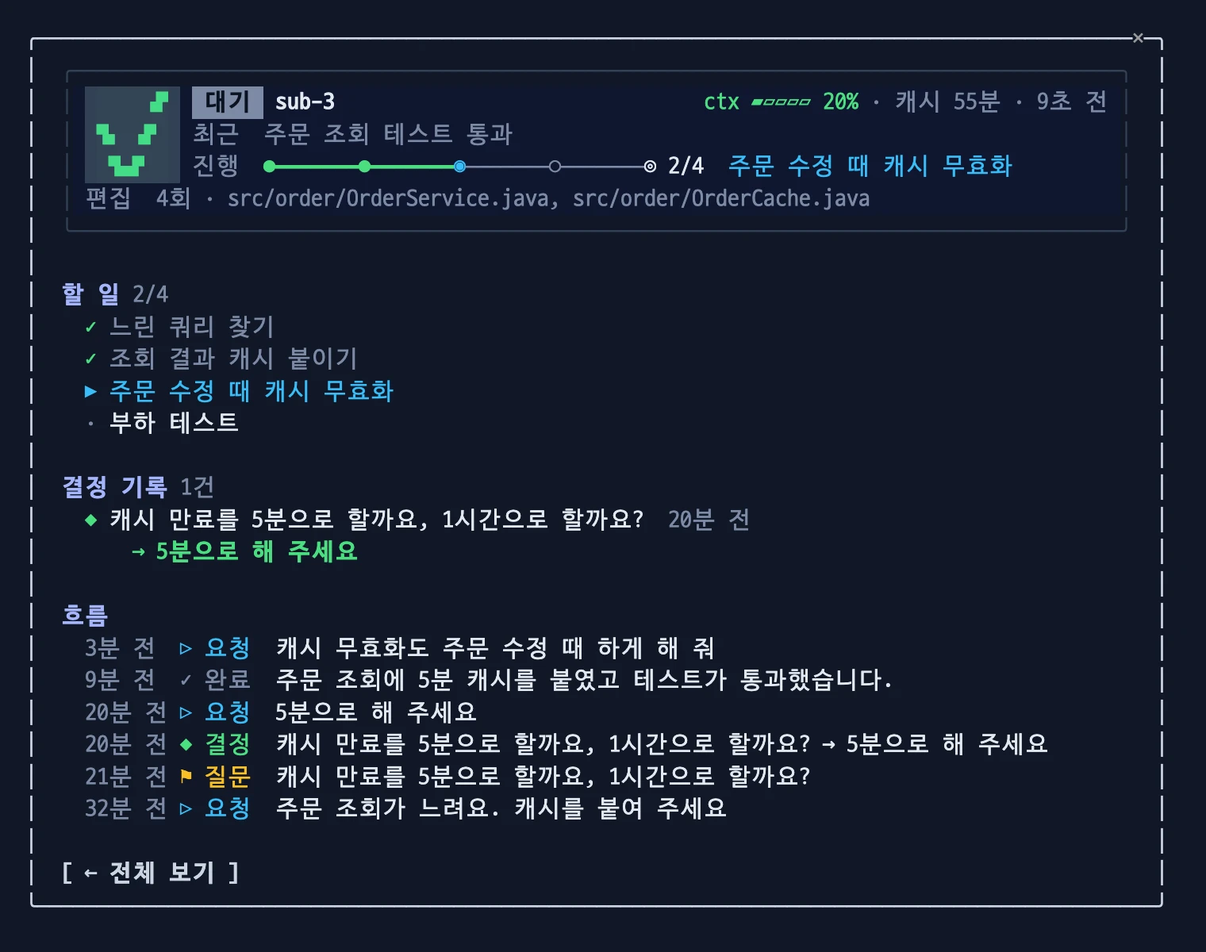
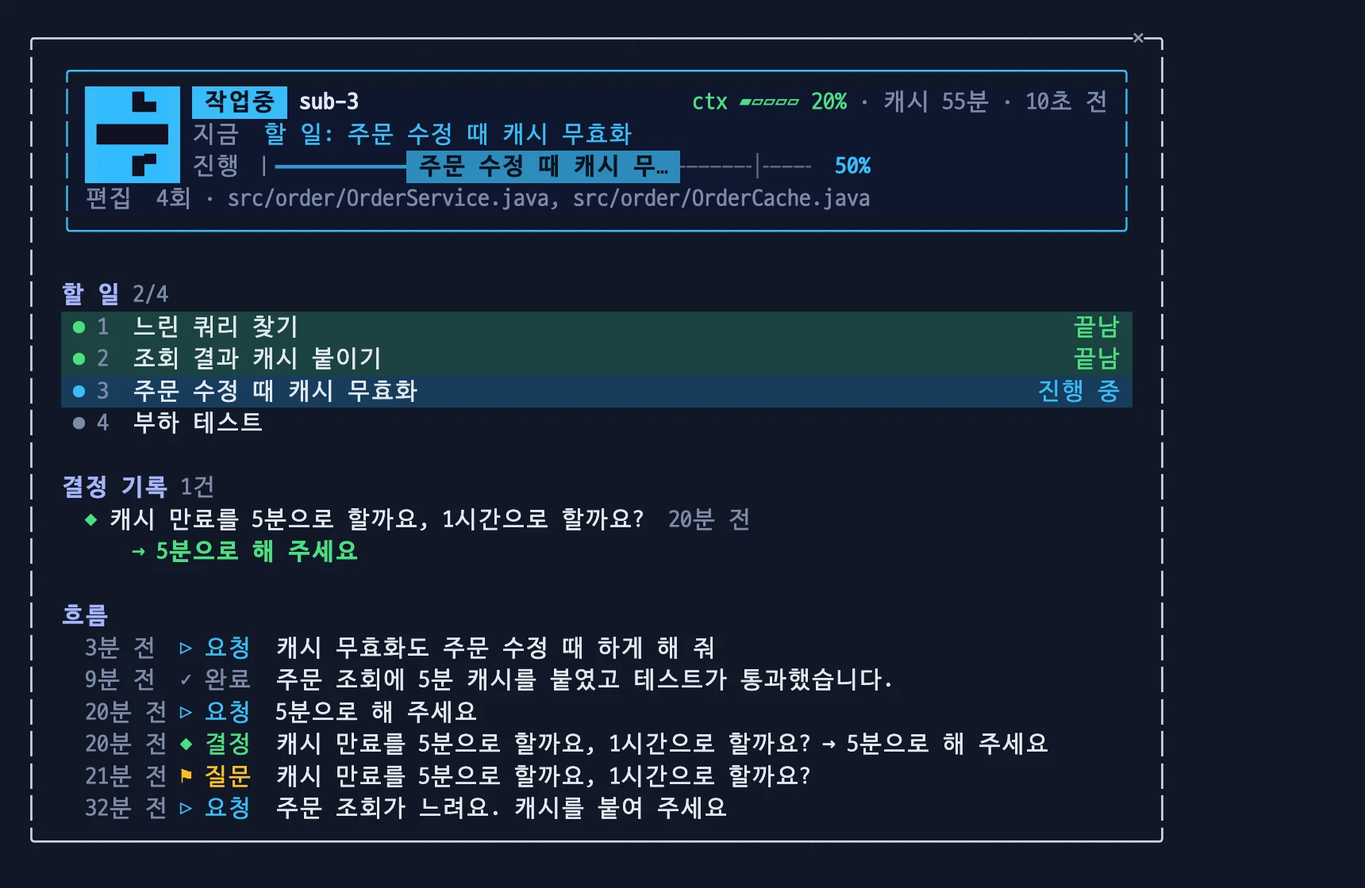
README: add per-option screenshots with use cases for every mod, and capture tools
Claude-Session: https://claude.ai/code/session_0171W1s1WD2Q3wd3CeGP9kTN

Changed region(s): [[0.0, 0.0312, 0.9586, 0.9688], [0.8039, 0.2188, 0.8658, 0.25], [0.5566, 0.5312, 0.6184, 0.5625]]

diff --git a/docs/tools/peers.py b/docs/tools/peers.py
@@ -1,4 +1,4 @@
-# 촬영용 가짜 동료 세션 기록을 쓴다. 사용: peers.py <dir> <scenario: hud|eight|five|many|ask|agents|flow|none(지우기만)>
+# 촬영용 가짜 동료 세션 기록을 쓴다. 사용: peers.py <dir> <scenario: hud|eight|five|many|ask|agents|flow|bars|none(지우기만)>
 import json, os, sys, time, glob
 d, sc = sys.argv[1], sys.argv[2]
 for f in glob.glob(os.path.join(d, 'peer-*.json')):
@@ -6,7 +6,8 @@ for f in glob.glob(os.path.join(d, 'peer-*.json')):
 now = int(time.time() * 1000)
 cwd = '/repo/order-svc'
 def t(*st):
-    return [{'id': str(i + 1), 'subject': f'할 일 {i + 1}', 'status': s} for i, s in enumerate(st)]
+    names = ['느린 쿼리 찾기', '조회 결과 캐시 붙이기', '캐시 무효화', '부하 테스트', '문서 정리', '배포 확인']
+    return [{'id': str(i + 1), 'subject': names[i] if i < len(names) else f'할 일 {i + 1}', 'status': s} for i, s in enumerate(st)]
 def put(id, name, **kw):
     b = {'id': 'peer-' + id, 'name': name, 'cwd': cwd, 'state': 'idle', 'step': '', 'prompt': '', 'last': '', 'question': '',
          'contextPct': 20, 'tasks': [], 'decisions': [], 'timeline': [], 'edits': 0, 'files': [], 'fail': None,
@@ -20,7 +21,8 @@ if False:
 elif sc == 'hud':
     put('2', 'sub-2', state='asking', question='캐시 만료를 5분으로 할까요, 1시간으로 할까요?', tasks=t('completed', 'in_progress', 'pending', 'pending'))
     put('a', 'api-fix', state='working', step='Bash ./gradlew test --tests Order')
-    put('3', 'sub-3', tasks=t('completed', 'completed', 'pending', 'pending'), last='PR38 래퍼 수정 완료')
+    put('3', 'sub-3', tasks=t('completed', 'completed', 'completed', 'completed'), last='PR38 래퍼 수정 완료',
+        timeline=[{'at': now - 260_000, 'kind': 'prompt', 'text': 'PR38 래퍼 수정'}, {'at': now - 20_000, 'kind': 'done', 'text': '끝'}])
     put('4', 'sub-4', cacheAt=now - 52 * 60_000, last='JOIN 감시 규칙 정리')
 elif sc == 'eight':
     put('3', 'sub-3', state='asking', question='캐시 만료를 5분으로 할까요, 1시간으로 할까요?')
@@ -46,10 +48,19 @@ elif sc == 'agents':
         ag('a2', '캐시 설정 위치 찾기', 'done', '', 21_400, 70)])
     put('3', 'sub-3', last='PR38 래퍼 수정 완료')
     put('2', 'sub-2', state='asking', question='캐시 만료를 5분으로 할까요, 1시간으로 할까요?')
+elif sc == 'bars':
+    # 진행 막대 상태 4종: 작업 · 결정 대기 · 멈춤(중단된 계획) · 끝남
+    sub = ['느린 쿼리 찾기', '조회 결과 캐시 붙이기', '캐시 무효화', '부하 테스트']
+    plan = lambda *st: [{'id': str(i + 1), 'subject': x, 'status': s} for i, (x, s) in enumerate(zip(sub, st))]
+    put('a', 'api-fix', state='working', step='할 일: 조회 결과 캐시 붙이기', tasks=plan('completed', 'in_progress', 'pending', 'pending'))
+    put('2', 'sub-2', state='asking', question='캐시 만료를 5분으로 할까요, 1시간으로 할까요?', tasks=plan('completed', 'completed', 'in_progress', 'pending'))
+    put('3', 'sub-3', last='중단됨', planEnded=True, tasks=plan('completed', 'completed', 'in_progress', 'pending'))
+    put('4', 'sub-4', last='부하 테스트까지 마쳤습니다.', tasks=plan('completed', 'completed', 'completed', 'completed'),
+        timeline=[{'at': now - 200_000, 'kind': 'prompt', 'text': '주문 조회 캐시'}, {'at': now - 8_000, 'kind': 'done', 'text': '끝'}])
 elif sc == 'flow':
     m = lambda s: now - s * 60_000
     sub = ['느린 쿼리 찾기', '조회 결과 캐시 붙이기', '주문 수정 때 캐시 무효화', '부하 테스트']
-    put('3', 'sub-3', tasks=[{'id': str(i + 1), 'subject': x, 'status': st} for i, (x, st) in
+    put('3', 'sub-3', state='working', step='할 일: 주문 수정 때 캐시 무효화', tasks=[{'id': str(i + 1), 'subject': x, 'status': st} for i, (x, st) in
         enumerate(zip(sub, ['completed', 'completed', 'in_progress', 'pending']))], last='주문 조회 테스트 통과', edits=4,
         files=['src/order/OrderService.java', 'src/order/OrderCache.java'],
         decisions=[{'at': m(20), 'question': '캐시 만료를 5분으로 할까요, 1시간으로 할까요?', 'answer': '5분으로 해 주세요'}],

diff --git a/docs/tools/ansi2html.py b/docs/tools/ansi2html.py
@@ -21,6 +21,8 @@ def seg_lines(spec):
         last = next(i for i, l in enumerate(plain) if '╚' in l and i > first)
     return ls[int(first):int(last) + 1]
 def parse(ln):
+    # OSC 8 링크(파일 경로·세션 URL)는 글자 없이 지운다: 홈 경로가 그림에 새지 않게
+    ln = re.sub(r'\x1b\][^\x07\x1b]*(?:\x07|\x1b\\)', '', ln)
     st = {'fg': None, 'bg': None, 'b': False, 'dim': False, 'rev': False}
     cells, pos = [], 0
     for m in re.finditer(r'\x1b\[([0-9;:]*)m|([^\x1b])', ln):

diff --git a/prompt-coach/README.md b/prompt-coach/README.md
@@ -1,0 +1,98 @@
+# prompt-coach
+
+입력창에 쓴 초안에서 사람만 아는 빈 곳(목표, 범위, 결과 모양, 완료 확인)을 객관식으로 묻고, 답을 넣어 다시 씁니다. 보내기는 직접 합니다.
+
+<img src="../docs/images/prompt-coach-band.webp" alt="입력창의 place_order 재고 해제 고쳐줘 위에 ━━ prompt-coach ━━ 띠와 [ 다듬기 ] 버튼" width="760">
+
+이럴 때: "캐시 붙여 줘" 처럼 짧게 쓴 요청을 보내기 전에, 빠진 조건을 채워 한 번에 원하는 결과가 나오게 합니다.
+
+- 다른 mod가 없어도 혼자 동작합니다.
+
+```bash
+claude plugin marketplace add yeochul-jeon/devflow-mods
+claude plugin install prompt-coach@devflow-mods
+```
+
+## 다듬기
+
+- 입력창에 초안을 쓰면 위에 띠가 보입니다. 굵은 회색 가로줄 `━━ prompt-coach ━━` 아래에 `[다듬기]` 버튼이 있습니다. 입력창을 비우면 띠가 사라집니다.
+- 다듬기는 두 단계입니다.
+  1. 질문: Haiku가 초안만 보고, 사람만 아는 빈 곳을 객관식으로 3개까지 묻습니다. 초안이 이미 분명하면 묻지 않고 바로 다음 단계로 갑니다.
+  2. 다시 쓰기: 답을 넣어 목표 → 맥락 → 조건 → 완료 기준 순으로 다시 쓰고 입력창을 바꿉니다.
+- 질문하는 동안 입력창은 비워 둡니다. 초안은 띠의 `초안` 줄에 보입니다. 입력창이 비어 있어서 숫자 키로 답할 수 있습니다.
+
+<img src="../docs/images/prompt-coach-question.webp" alt="띠에 초안과 질문 1/2 어떤 증상으로 재고 해제가 잘못되고 있나요? 와 선택지 1~3, 0 건너뛰기, 9 바로 다듬기" width="760">
+
+| 질문 중 입력 | 동작 |
+| --- | --- |
+| `1`~`4` | 그 번호의 선택지를 고릅니다. |
+| `0` | 이 질문을 건너뜁니다. |
+| `9` | 남은 질문을 건너뛰고 지금까지의 답으로 바로 다시 씁니다. |
+| 입력창에 글을 쓰고 Enter | 그 글을 이 질문의 답으로 받습니다. 보내지 않습니다. |
+| `>` 로 시작하는 글을 쓰고 Enter | 다듬기를 그만두고 `>` 를 뺀 글을 새 요청으로 보냅니다. 초안은 입력창에 돌려놓습니다. |
+| `[취소]` | 다듬기를 그만두고 초안을 입력창에 돌려놓습니다. |
+
+- 다시 쓴 뒤 띠에 `답 n · 제안 n` 과 보탠 것이 보입니다. 초록은 답에서 온 것, 노랑은 Haiku가 스스로 보탠 결과 모양이나 완료 확인입니다. 고치거나 그대로 보내세요.
+
+<img src="../docs/images/prompt-coach-result.webp" alt="입력창에 증상·완료 기준이 붙은 다듬은 글, 띠에 답 2 와 초록색 보탠 것 두 줄, [ 되돌리기 ]" width="760">
+
+이럴 때: 다시 쓴 글에서 노란 제안이 원하는 것과 다르면 그 줄만 고쳐 보냅니다.
+
+- 버튼 누르기: **ctrl+x tab** 으로 띠에 들어가 **Tab** 으로 옮기고 **Enter** 로 누릅니다. **Esc** 로 입력창에 돌아옵니다. 마우스로도 누를 수 있습니다.
+
+## 명령·버튼
+
+| 명령·버튼 | 동작 |
+| --- | --- |
+| `[다듬기]` | 입력창의 초안으로 다듬기를 시작합니다. |
+| `[되돌리기]` | 다듬은 뒤에만 보입니다. 다듬기 전 원문으로 되돌립니다. 다듬은 뒤 입력창을 고쳤으면 덮지 않습니다. |
+| `/coach <초안>` | `[다듬기]` 와 같은 일을 키보드로 합니다. |
+| `/coach view` | 옆 패널에 상세를 띄웁니다. |
+| `/coach auto on\|off` | 자동 모드를 켜고 끕니다. |
+| `/coach cancel` | `[취소]` 와 같습니다. |
+| `/coach undo` | 다듬기 전 원문을 입력창에 넣습니다. |
+| `/coach template` | 빈 틀을 입력창에 넣습니다. 모델을 호출하지 않습니다. |
+| `/coach` | 사용법과 이번 세션 사용량(호출 수, Haiku 입력·출력 토큰)을 보여 줍니다. |
+
+### `/coach view`
+
+지금 단계, 질문 전체(고른 답 바꾸기), 다듬기 전후 낱말 수·보탠 것·원문과 다듬은 글, 최근 20개 기록(`입력창에 넣기`), 자동 모드 켜기·끄기를 옆 패널에 보여 줍니다.
+
+<img src="../docs/images/prompt-coach-view.webp" alt="/coach view 옆 패널: 단계 표시, 자동 모드 꺼짐, Haiku 2회 사용량, 원문 4단어 → 20단어, 보탠 것, 원문·다듬은 글 상자, 기록 1" width="760">
+
+이럴 때: 예전에 다듬은 요청을 다시 쓰고 싶을 때 기록에서 골라 입력창에 넣습니다.
+
+### `/coach template`
+
+빈 틀(목표·맥락·조건·완료 기준)을 입력창에 넣습니다. 이전에 다듬은 원문은 지웁니다.
+
+<img src="../docs/images/prompt-coach-template.webp" alt="/coach template: 입력창에 목표·맥락·조건·완료 기준 빈 틀" width="760">
+
+이럴 때: 처음부터 빠짐없이 쓰고 싶을 때, Haiku 호출 없이 틀만 받아 채웁니다.
+
+### 자동 모드 `/coach auto on`
+
+켜면 입력창에서 보낼 때마다 먼저 묻고 다듬습니다. 보낸 글은 바로 Claude에게 가지 않고(`Prompt dropped by a hook` 이 보입니다) 띠에서 질문이 시작됩니다. 그대로 보내려면 맨 앞에 `>` 를 붙이세요. 기본은 꺼짐이고, 모든 세션에 같이 적용됩니다.
+
+<img src="../docs/images/prompt-coach-auto.webp" alt="자동 모드 켜짐 안내, 보낸 초안이 Prompt dropped by a hook 으로 멈추고 띠에 질문 1/2" width="760">
+
+이럴 때: 요청을 짧게 쓰는 버릇이 있어 매번 다듬기를 누르기 번거로울 때 켭니다.
+
+## 다른 mod와 함께
+
+- team-board를 함께 쓰면 질문이 답을 기다리는 동안 그 세션이 결정 필요(`prompt-coach: <질문>`)로 보입니다.
+- next-steps 0.3.1 이상과 함께 쓰면 질문이 뜰 때 next-steps 제안 목록이 닫힙니다. 그 전 판에서는 두 띠가 함께 보이면 숫자를 next-steps 가 가져갑니다.
+- 원문은 한 번만 되돌릴 수 있고, 보내면 지워집니다.
+
+## 비용과 주의
+
+- 다듬기 한 번에 Haiku를 2회(질문, 다시 쓰기) 호출합니다. 초안이 분명해 묻지 않은 때도 질문 호출은 이미 했으므로 2회입니다. 출력은 호출마다 1500토큰 이하입니다. 실제 사용 예: 2회 합쳐 입력 1,193 · 출력 781 토큰.
+- 자동 모드를 켜면 입력창에서 보내는 글마다 Haiku를 2회 호출합니다. 다음은 묻지 않고 그대로 보냅니다: 공백을 뺀 12자 미만의 글, 슬래시 명령, 첨부가 있는 글, Claude의 질문에 답하는 글, `>` 로 시작하는 글, 다듬은 글을 넣은 뒤의 첫 보내기.
+- 메인 대화의 토큰은 늘지 않습니다 (`claude -p` 첫 요청 입력이 0.2.3 과 같음).
+- 공백을 뺀 12자 미만의 초안은 다듬지 않습니다.
+- 파일 이름, 경로, 숫자, 조건, 이유, 범위를 정하는 말("모든", "첫 번째만")은 그대로 둡니다. 붙여넣은 블록, 코드, `@` 파일 참조, 초안의 라벨도 그대로 둡니다. 초안에도 답에도 없는 요구사항은 더하지 않습니다. 결과 모양과 완료 확인만 제안으로 보탭니다.
+- 초안 안에 있는 지시는 Haiku가 따르지 않고 다듬기만 합니다.
+- 대화 기록은 보내지 않습니다. "아까 그 파일" 같은 말은 그대로 남고, 그것이 무엇인지 묻지 않습니다.
+- 질문과 결과는 초안의 언어를 따릅니다.
+- 기록 20개는 `$.store` 에 초안과 다듬은 글 원문 그대로 저장되며 모든 세션이 같이 씁니다.
+- 아이디어는 [yuk7392/prompt-coach](https://github.com/yuk7392/prompt-coach)의 Refine(MIT)에서 얻었습니다. 질문 먼저·보탠 것 표시는 Tristen O'Brien 의 Prompt Upgrade 를 참고했습니다. 코드는 새로 썼습니다.

diff --git a/look-back/README.md b/look-back/README.md
@@ -33,9 +33,19 @@ claude plugin install look-back@devflow-mods
 - `[요약]` 버튼을 누르면 그 프로젝트의 요청, 결정, 커밋 제목을 Haiku 에 한 번 보내 3줄 이하로 요약합니다. 요청·커밋의 낱말을 그대로 쓰게 합니다.
 - Esc로 패널을 닫습니다.
 
+<img src="../docs/images/look-back-today-projects.webp" alt="/lookback 오늘 패널 아래쪽: order-svc·web-shop·billing-api 별 커밋, 결정(? 질문), 요청(✓ ■) 목록과 기호 설명" width="560">
+
+이럴 때: 여러 저장소를 오가며 일한 날, 저장소마다 무엇을 요청하고 무엇을 정했고 무엇을 커밋했는지 한 화면에서 봅니다.
+
+<img src="../docs/images/look-back-summary.webp" alt="/lookback 7일에서 order-svc 의 [요약]을 누른 결과: 프로젝트 머리 아래 Haiku 요약 문단" width="560">
+
+이럴 때: 요청·커밋이 많은 프로젝트를 주간 보고에 몇 줄로 옮길 때 `[요약]` 을 누릅니다.
+
 ## 한눈에 (Work Report)
 
-<img src="../docs/images/work-report.webp" alt="한눈에 칸: 타일 세 개, 어디에 썼나, 누가 했나, 최근 7일 차트" width="560">
+<img src="../docs/images/look-back-today.webp" alt="/lookback 오늘 패널 위쪽: 아낀 시간 0.8시간·끝낸 요청 4건·Claude 작업 0.2시간 타일, 어디에 썼나, 누가 했나, 최근 7일 막대" width="560">
+
+이럴 때: 하루를 마치고 오늘 한 일을 숫자로 돌아봅니다.
 
 - 타일: **아낀 시간**(추정) · **끝낸 요청**(답한 요청 수) · **Claude 작업**(턴 시간 합, 실측). 좁은 패널에서는 타일이 3 → 2 → 1칸으로 줄을 바꾸고, 숫자가 칸보다 넓으면 굵은 글자 한 줄로 씁니다.
 - 어디에 썼나: 요청 종류별 막대·건수·추정 시간. 종류는 그 요청에서 메인 Claude가 쓴 도구로 정하고, 앞 것이 이깁니다.
@@ -50,10 +60,18 @@ claude plugin install look-back@devflow-mods
 거부된 도구는 세지 않습니다. Bash 는 이어 붙인 명령이 모두 읽기만 할 때만 조사입니다. 하나라도 다른 명령이나 파일로 쓰는 리다이렉트(`> f`)가 섞이면 실행입니다. 판정은 team-board 의 숨은 실패 감지에 쓰는 규칙과 같습니다.
 
 - 누가 했나: 모델별 막대·건수 (메인 요청의 모델).
+
+<img src="../docs/images/look-back-week.webp" alt="/lookback 7일: 아낀 시간 3.5시간·끝낸 요청 14건·Claude 작업 0.9시간, 코드 수정 6·조사 4·실행 2·대화 2, Opus 8·Sonnet 4·Haiku 2" width="560">
+
+이럴 때: 한 주를 돌아보며 시간을 어디에(코드 수정·조사·실행·대화), 어느 모델로 썼는지 봅니다.
 - 차트: 3줄 막대. 오늘·어제·7일은 최근 7일(요일), 30일은 날짜, 올해는 1~12월. 오늘·이번 달은 노랑. 칸 사이는 흐린 세로줄, 막대 아래는 기준선. 아래 한 줄: 최근 7일 아낀 시간과 연속 일수, 또는 가장 많은 날·달과 일한 날 수.
 - 0.3.0 전 기록은 종류·모델이 없어 "기록 전"으로 보이고, 아낀 시간에 넣지 않습니다. 막대 길이는 "기록 전"을 빼고 잽니다.
 - 아낀 시간은 추정입니다. 요청 하나를 몇 분으로 칠지는 `claude plugin configure look-back@devflow-mods` 에서 종류마다 바꿉니다. 금액은 보여 주지 않습니다.
 - 켜기·끄기: `/lookback report off` / `on`. 기본은 켜짐이고 다음 세션에도 유지합니다. 꺼도 종류·모델 기록은 계속하므로, 다시 켜면 지난 기간도 바로 보입니다.
+
+<img src="../docs/images/look-back-report-off.webp" alt="/lookback report off 뒤: 한눈에 칸이 빠지고 돌아보기 · 2026-10-22 아래 바로 프로젝트 목록" width="560">
+
+이럴 때: 숫자와 차트 없이 프로젝트 목록만 짧게 보고 싶을 때 끕니다.
 - 디자인은 Tristen O'Brien 의 Work Report mod(영상 "5 MORE Claude Code MODS You Need")를 참고했습니다. 코드는 새로 썼습니다.
 
 ## 비용

diff --git a/next-steps/README.md b/next-steps/README.md
@@ -1,0 +1,46 @@
+# next-steps
+
+Claude의 답변이 끝나면 입력창 위에 다음에 보낼 만한 요청을 3개까지 보여 줍니다. 숫자를 누르면 그 요청이 입력창에 초안으로 들어갑니다.
+
+<img src="../docs/images/next-steps-list.webp" alt="답변 아래 ── next-steps ── 가로줄과 제안 2개, 0 닫기 · 클릭이나 빈 입력창에서 숫자 안내" width="760">
+
+이럴 때: 답을 읽고 "그다음 뭘 시키지?" 를 직접 쓰기 전에, 흐름상 이어질 요청을 골라 고쳐 보냅니다.
+
+- 다른 mod가 없어도 혼자 동작합니다.
+
+```bash
+claude plugin marketplace add yeochul-jeon/devflow-mods
+claude plugin install next-steps@devflow-mods
+```
+
+## 동작
+
+- 답변이 끝나면 `다음: 1 … 2 … 3 …` 을 보여 줍니다. 목록 위의 흐린 가로줄 `── next-steps ──`이 위 대화와 목록을 나눕니다.
+- 빈 입력창에서 숫자를 누르면 그 요청이 초안으로 들어갑니다. 고치거나 Enter로 보내세요. 자동으로 보내지 않습니다.
+- 제안 줄을 클릭하면 그 요청이 입력창의 커서 자리에 들어갑니다. 쓰던 글은 남습니다. 마우스를 올린 줄에는 음영이 생깁니다. 클릭은 fullscreen 터미널에서만 동작합니다.
+- `0` 은 목록을 닫습니다.
+- 제안은 대화 언어를 따릅니다. 파일 이름, 명령, 식별자는 그대로 둡니다.
+
+<img src="../docs/images/next-steps-draft.webp" alt="제안 목록 아래 입력창에 1번 제안 글이 들어간 모습" width="760">
+
+이럴 때: 제안이 거의 맞지만 조금 다를 때, 숫자로 넣은 뒤 고쳐서 보냅니다.
+
+## 명령
+
+| 명령 | 동작 |
+| --- | --- |
+| `/next` | 이번 세션 사용량(호출 수, Haiku 입력·출력 토큰)을 보여 줍니다. |
+| `/next off` · `/next on` | 끄고 켭니다. 다음 세션에도 유지됩니다. |
+
+<img src="../docs/images/next-steps-usage.webp" alt="/next 결과: 다음 요청 제안 켜짐 · 이번 세션 1회, Haiku 입력 538 · 출력 365 토큰" width="760">
+
+이럴 때: 제안에 드는 Haiku 비용이 얼마인지 확인하고, 필요 없으면 `/next off` 로 끕니다.
+
+## 비용과 주의
+
+- 메인 스레드의 답변이 끝날 때마다 Haiku를 1회 호출합니다.
+- 보내는 내용: 최근 대화 6개를 800자씩, 최신 답변 2000자. 출력은 200토큰 이하입니다.
+- 20자 미만의 답변, 서브에이전트의 턴, 백그라운드 에이전트가 실행 중일 때는 호출하지 않습니다.
+- 목록이 보이는 동안 빈 입력창에 `1` 로 시작하는 글을 치면 첫 글자가 제안을 고릅니다. 이때는 `0` 으로 목록을 먼저 닫으세요.
+- prompt-coach 가 질문을 띄우면 목록을 닫습니다. 숫자는 prompt-coach 질문의 답이 됩니다.
+- 아이디어는 [hamzafer/claude-code-mods](https://github.com/hamzafer/claude-code-mods)의 next-steps(MIT)에서 얻었습니다. 코드는 새로 썼습니다.

diff --git a/work-plan/README.md b/work-plan/README.md
@@ -2,7 +2,7 @@
 
 Claude가 여러 단계 작업의 계획과 진행을 `plan_update` 도구로 보고하게 합니다. 화면 표시는 [team-board](../team-board/README.md)가 합니다. team-board의 진행 막대와 지금 단계 줄(`2/5 테스트 실행…`)이 이 보고로 채워집니다.
 
-- Opus 5.5 같은 새 모델에는 할 일 도구(TodoWrite, TaskCreate)가 없습니다. 그래서 team-board만 쓰면 경로선이 비어 있습니다.
+- Opus 5.5 같은 새 모델에는 할 일 도구(TodoWrite, TaskCreate)가 없습니다. 그래서 team-board만 쓰면 진행 막대가 비어 있습니다.
 - 혼자 설치하면 화면에 보이는 것이 없습니다. 오류도 나지 않습니다.
 - team-board와 함께 쓰려고 `dependencies` 로 묶지 않았습니다. 두 mod는 각각 켜고 끌 수 있습니다.
 
@@ -11,6 +11,10 @@ claude plugin marketplace add yeochul-jeon/devflow-mods
 claude plugin install work-plan@devflow-mods
 claude plugin install team-board@devflow-mods     # 화면 표시
 ```
+
+<img src="../docs/images/work-plan-turn.webp" alt="Claude가 plan_update 로 3단계 계획을 보고하고 첫 단계를 끝냄. Spinner 줄은 2/3 파일 3개 읽기, 팀 창 막대는 33%" width="760">
+
+이럴 때: 긴 작업을 맡겨 두고 다른 세션을 볼 때, 이 세션이 몇 단계 중 어디에 있는지 Spinner 줄(`2/3 …`)과 팀 창 막대로 봅니다.
 
 ## 동작
 
@@ -56,6 +60,10 @@ claude plugin disable work-plan@devflow-mods
 ```bash
 claude plugin configure work-plan@devflow-mods      # 또는 /plugin → Installed → work-plan → Configure
 ```
+
+<img src="../docs/images/work-plan-gate.webp" alt="planGate 를 켠 세션: 한 줄 주석 추가 요청에도 Claude가 plan_update 로 계획을 먼저 보고한 뒤 Edit 함" width="760">
+
+이럴 때: 한 줄 수정이라도 무엇을 바꿀지 먼저 밝히고 고치게 하고 싶을 때 켭니다. 그림처럼 Claude가 규칙을 보고 먼저 보고하면 거부는 일어나지 않습니다. 보고 없이 고치려 하면 그 수정이 거부되고 Claude가 보고부터 다시 합니다.
 
 - 한 턴은 사용자가 보낸 요청 하나입니다. 턴마다 새로 보고해야 합니다. 한 줄 수정도 보고가 필요합니다.
 - 같은 응답 안에서는 `plan_update` 가 수정보다 앞에 있어야 합니다. 엔진은 응답이 다 오기 전에 도구를 차례로 실행합니다.

diff --git a/draw/README.md b/draw/README.md
@@ -15,6 +15,10 @@ rkm2aws
 - `/eli12` 는 설명을 12살 버전으로 바꿉니다. `/draw` 는 설명을 바꾸지 않고 그 안의 흐름만 그립니다.
 - 다른 mod가 없어도 혼자 동작합니다.
 
+<img src="../docs/images/draw-panel.webp" alt="왼쪽에 place_order 실패 지점 표 답변, 오른쪽 패널에 정상 흐름·재고 부족·결제 실패·charge 예외 네 갈래 흐름 그림" width="760">
+
+이럴 때: 표와 문단이 긴 답을 받은 뒤, 답은 그대로 두고 순서와 갈래만 옆에서 한눈에 봅니다.
+
 ```bash
 claude plugin marketplace add yeochul-jeon/devflow-mods
 claude plugin install draw@devflow-mods
@@ -23,6 +27,10 @@ claude plugin install draw@devflow-mods
 ## 동작
 
 - `/draw` 는 직전 답변 전체를, `/draw <낱말>` 은 그 낱말에 관한 흐름만 그립니다.
+
+<img src="../docs/images/draw-word.webp" alt="/draw 결제 실패: 패널에 결제 실패 초점 흐름, charge 예외는 가로 상자, 아래 · 줄에 그림에 못 담은 조건" width="760">
+
+이럴 때: 답 중 한 주제(예: 결제 실패)의 흐름만 따로 보고 싶을 때 낱말을 붙입니다.
 - 직전 답변을 Haiku 에 한 번 보내 흐름을 JSON 으로 받고, 그림은 mod 가 그립니다. 한글 폭(2칸)을 계산해 그리므로 상자가 어긋나지 않습니다.
 - 흐름은 4개, 흐름마다 단계는 6개까지입니다. 이름이 짧아 한 줄에 다 들어가면 상자를 가로로, 아니면 한 단계에 한 줄씩 세로로 그립니다. 긴 이름은 자르지 않고 다음 줄로 이어 씁니다.
 - 그림에 담지 못한 조건이나 되돌아가는 흐름은 그림 아래 `·` 줄에 적습니다.

diff --git a/plain-terms/README.md b/plain-terms/README.md
@@ -7,6 +7,10 @@ tsc(TypeScript 타입 검사기) 오류 3개 …
 E1(work-plan의 Enterprise 설치 확인): …
 ```
 
+<img src="../docs/images/plain-terms-answer.webp" alt="캐시 동작 설명 답변: TTL(Time To Live, 항목 만료 시간), LRU(Least Recently Used, 오래 안 쓴 항목부터 버리는 방식), getOrder(id)(주문 조회 진입점) 처럼 처음 나온 용어 뒤에 괄호 풀이" width="760">
+
+이럴 때: 여러 세션의 답을 번갈아 읽다 보면 약어나 함수 이름이 무엇이었는지 놓칩니다. 처음 나온 자리에서 바로 풀어 주어 위로 다시 올라가 찾지 않아도 됩니다.
+
 - 여러 세션을 동시에 볼 때 `T6`, `G4b`, `STE`, `scanGen` 같은 말이 무엇인지 놓치는 문제를 줄이려고 만들었습니다.
 - 다른 mod가 없어도 혼자 동작합니다.
 
